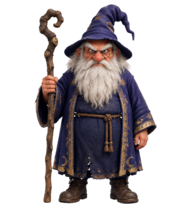
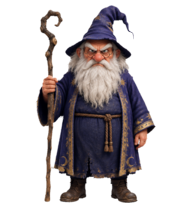
Trim the white halo off the pet sprites (0.3.1) (#1)
* Rename the fat ninja pet to V2 Ninja

* Trim the white halo off the pet sprites

The clip frames are keyed from white-background video, and their outer
ring of pixels kept the white they were blended with, so every pet showed
a light outline on a dark pane. keyWhite erodes the outline at clip size,
which is only about a quarter pixel once the frame is shrunk to 192 wide.

- Every clip frame of both pets, and the wizard's still, has its outline
  pulled in by 1px (alpha erosion per frame, re-encoded at the same
  cwebp settings). Edge brightness drops from ~120 to ~70, in line with
  the pixels inside it. The ninja's still had no halo and is unchanged.
- make-pet.ts now does the same 1px trim at the final frame size, for
  clips and for stills keyed from a white background, so new pets come
  out clean. Checked by rebuilding the wizard's waving clip and still
  from the original Higgsfield files.

* Release 0.3.1: sprites without the white halo

* Point the default pet at v2-ninja after the rename

DEFAULT_PET still named fat-ninja, which the rename removed, so a fresh
install (or anyone whose saved pet no longer loads) fell back to a pet
that doesn't exist and the pane failed to load. The tests mocked a
fat-ninja folder, so they passed anyway; they now use v2-ninja too.

* Fix holes and drift in make-pet's keying

- keyWhite painted the flooded background black and then took every
  non-black pixel as the pet, so any pure-black pixel of the pet itself
[…]

diff --git a/scripts/make-pet.ts b/scripts/make-pet.ts
@@ -42,16 +42,33 @@ const STILL_MARGIN = 4
 // bigger than HOLE_AREA at HOLE_SIZE do too. Video compression greys white
 // a little, and at 97% a narrow gap (staff and robe) breaks into specks too
 // small to count, so HOLE_WHITE sits at 93% and HOLE_AREA at 120. Eyes and
-// highlights stay, as they aren't that white.
+// highlights stay, as they aren't that white. A pet with a white marking
+// that white passes KEEP_WHITE and keeps everything inside its outline:
+// Clawde's starburst reaches 93-97% in a clip, as white as a gap between
+// its legs, so no lightness or size tells the two apart.
 const FLOOD_FUZZ = '8%'
 const HOLE_WHITE = '93%'
 const HOLE_AREA = 120
 const HOLE_SIZE = 640
-// Drift: the figure's bottom band, from FEET_BAND of its height above its
-// bottom to FEET_BELOW of the clip below it, smoothed over DRIFT_WINDOW frames.
-const FEET_BAND = 0.25
+const KEEP_WHITE = '--keep-white'
+// Drift: the figure's bottom band, from a share of its height above its
+// bottom to FEET_BELOW of the clip below it. Its place is smoothed over
+// DRIFT_WINDOW frames either side and its width, which sets the zoom, over
+// ZOOM_WINDOW, as a camera's zoom drifts slowly and anything else in the
+// band (a hand that hangs low) comes and goes. The zoom stays within
+// MAX_ZOOM either way. The share is whichever of FEET_BANDS keeps its width
+// within WIDTH_TOLERANCE of the usual in the most frames: a quarter takes in
+// hands that hang low (Clawde), which leave the band as they rise; a tenth
+// takes in only a seated pet's folded legs (the ninja), which move. A frame
+// with nothing in the band (mid-hop) keeps the frame before's feet.
+const QUARTER = 0.25
+const TENTH = 0.1
+const FEET_BANDS = [QUARTER, TENTH]
 const FEET_BELOW = 0.08
 const DRIFT_WINDOW = 15
+const ZOOM_WINDOW = 30
+const MAX_ZOOM = 1.1
+const WIDTH_TOLERANCE = 0.1
 
 // Packing: CLIP_FPS frames a second (hooks/pets.ts plays them at that rate),
 // full size, at QUALITY, in as few pieces as fit, up to MAX_PIECES.
@@ -82,40 +99,55 @@ const run = (argv: string[]): string => {
 }
 
 // ImageMagick's "%@" bounding box, "WxH+X+Y".
-// Matches "148x198+22+5"; rejects "0x0" (nothing there) and "148x198".
+// Matches "148x198+22+5"; rejects "0x0" and "148x198". An empty crop gives
+// "0x0+5+5", which matches, so a box with no width or height counts as
+// nothing there too.
 // https://regex101.com/?regex=%5E(%5Cd%2B)x(%5Cd%2B)%2B(-%3F%5Cd%2B)%2B(-%3F%5Cd%2B)%24&testString=148x198%2B22%2B5
 const GEOMETRY = /^(\d+)x(\d+)\+(-?\d+)\+(-?\d+)$/
 
 const boundsOf = (file: string, crop = ''): Rect | undefined => {
   const args = crop === '' ? [] : ['-crop', crop, '+repage']
   const match = GEOMETRY.exec(run(['magick', file, '-alpha', 'extract', ...args, '-threshold', '50%', '-format', '%@', 'info:']))
-  if (match === null) {
-    return undefined
-  }
-  const [w, h, x, y] = match.slice(1).map(Number)
-  return { w: w ?? 0, h: h ?? 0, x: x ?? 0, y: y ?? 0 }
+  const [w = 0, h = 0, x = 0, y = 0] = match === null ? [] : match.slice(1).map(Number)
+  return w === 0 || h === 0 ? undefined : { w, h, x, y }
 }
 
 // Background to transparent: the white reached by flooding in from the four
 // corners, plus any pure-white gap inside the outline larger than a hole of
 // HOLE_AREA (between an arm and the body). Light fur and small white details
-// such as eyes stay.
-const keyWhite = (input: string, output: string, size: number) => {
+// such as eyes stay. With keepWhite the holes mask is all white, so nothing
+// inside the outline goes. The flood paints the background transparent and
+// its alpha is the mask: painting it black instead would also count every
+// pure-black pixel of the pet (the ninja's hood) as background.
+const keyWhite = (input: string, output: string, size: number, keepWhite: boolean) => {
   const area = String(Math.round(HOLE_AREA * (size / HOLE_SIZE) ** SQUARED))
   const far = size - 1
   const floods = [`0,0`, `${far},0`, `0,${far}`, `${far},${far}`].flatMap(corner => ['-draw', `color ${corner} floodfill`])
+  const holes = keepWhite
+    ? ['(', '-clone', '0', '-fill', 'white', '-colorize', String(PERCENT), '-colorspace', 'gray', ')']
+    : [
+        '(', '-clone', '0', '-colorspace', 'gray', '-threshold', HOLE_WHITE,
+        '-define', `connected-components:area-threshold=${area}`, '-define', 'connected-components:mean-color=true',
+        '-connected-components', '8', '-negate', ')',
+      ]
   run([
     'magick', input, '-alpha', 'off',
-    '(', '+clone', '-fuzz', FLOOD_FUZZ, '-fill', 'black', ...floods, '-fuzz', '0', '-fill', 'white', '+opaque', 'black', '-colorspace', 'gray', ')',
-    '(', '-clone', '0', '-colorspace', 'gray', '-threshold', HOLE_WHITE,
-    '-define', `connected-components:area-threshold=${area}`, '-define', 'connected-components:mean-color=true',
-    '-connected-components', '8', '-negate', ')',
+    '(', '+clone', '-alpha', 'set', '-fuzz', FLOOD_FUZZ, '-fill', 'none', ...floods, '-fuzz', '0', '-alpha', 'extract', ')',
+    ...holes,
     '(', '-clone', '1,2', '-compose', 'multiply', '-composite', '-morphology', 'Erode', 'Disk:1', '-blur', '0x0.7', ')',
     '-delete', '1,2', '-alpha', 'off', '-compose', 'CopyOpacity', '-composite', output,
   ])
 }
 
-const makeStill = (picture: string, petDir: string) => {
+// ImageMagick arguments that pull a cut-out's outline in by one pixel at its
+// final size. keyWhite erodes at clip size, about a quarter pixel once the
+// frame is shrunk, so the edge pixels still hold the white they were blended
+// with and show as a light halo on a dark pane. Outside the image counts as
+// transparent. (Eroding an extracted copy and putting it back with
+// CopyOpacity breaks after -distort: it comes back all opaque.)
+const TRIM_EDGE = ['-virtual-pixel', 'transparent', '-channel', 'A', '-morphology', 'Erode', 'Square:1', '+channel']
+
+const makeStill = (picture: string, petDir: string, keepWhite: boolean) => {
   mkdirSync(petDir, { recursive: true })
   const work = mkdtempSync(join(tmpdir(), 'pet-still-'))
   const cut = join(work, 'cut.png')
@@ -123,7 +155,7 @@ const makeStill = (picture: string, petDir: string) => {
   if (hasAlpha) {
     run(['magick', picture, cut])
   } else {
-    keyWhite(picture, cut, Number(run(['magick', picture, '-format', '%w', 'info:'])))
+    keyWhite(picture, cut, Number(run(['magick', picture, '-format', '%w', 'info:'])), keepWhite)
   }
   // Trimmed, fitted inside the margin, standing on the frame's bottom, centred.
   const fit = `${FRAME_WIDTH - BOTH_SIDES * STILL_MARGIN}x${FRAME_HEIGHT - BOTH_SIDES * STILL_MARGIN}`
@@ -131,7 +163,9 @@ const makeStill = (picture: string, petDir: string) => {
   run([
     'magick', cut, '-trim', '+repage', '-resize', fit, '-background', 'none',
     '-gravity', 'south', '-extent', `${FRAME_WIDTH}x${FRAME_HEIGHT - STILL_MARGIN}`,
-    '-gravity', 'north', '-extent', `${FRAME_WIDTH}x${FRAME_HEIGHT}`, still,
+    '-gravity', 'north', '-extent', `${FRAME_WIDTH}x${FRAME_HEIGHT}`,
+    // A picture that came with its own transparency has a clean edge already.
+    ...(hasAlpha ? [] : TRIM_EDGE), still,
   ])
   run(['cwebp', '-quiet', '-lossless', still, '-o', join(petDir, 'still.webp')])
   run([
@@ -152,10 +186,11 @@ const median = (values: number[]): number => {
 // Each frame's feet box, smoothed: follows slow drift but not a quick hop.
 const smoothFeet = (feet: Rect[]): Rect[] =>
   feet.map((_, index) => {
-    const around = feet.slice(Math.max(0, index - DRIFT_WINDOW), index + DRIFT_WINDOW + 1)
+    const near = (window: number) => feet.slice(Math.max(0, index - window), index + window + 1)
+    const around = near(DRIFT_WINDOW)
     return {
       x: median(around.map(rect => rect.x)),
-      w: median(around.map(rect => rect.w)),
+      w: median(near(ZOOM_WINDOW).map(rect => rect.w)),
       y: median(around.map(rect => rect.y + rect.h)),
       h: 0,
     }
@@ -206,7 +241,7 @@ const pack = (frames: string[], petDir: string, clip: string, work: string): str
   return pieces.map(piece => piece.name)
 }
 
-const makeClip = (petDir: string, clipName: string, clip: string) => {
+const makeClip = (petDir: string, clipName: string, clip: string, keepWhite: boolean) => {
   if (!CLIPS.includes(clipName)) {
     throw new Error(`the clip is one of ${CLIPS.join(', ')}, not "${clipName}"`)
   }
@@ -221,7 +256,7 @@ const makeClip = (petDir: string, clipName: string, clip: string) => {
   const rate = run(['ffprobe', '-v', 'error', '-select_streams', 'v:0', '-show_entries', 'stream=r_frame_rate', '-of', 'csv=p=0', clip])
   const [num = 1, den = 1] = rate.split('/').map(Number)
   const names = readdirSync(full).filter(file => file.endsWith('.png')).sort()
-  names.map(name => keyWhite(join(full, name), join(keyed, name), size))
+  names.map(name => keyWhite(join(full, name), join(keyed, name), size, keepWhite))
 
   // The feet band comes from the first frame, where the pet is in its still pose.
   const first = boundsOf(join(keyed, names[0] ?? ''))
@@ -229,13 +264,29 @@ const makeClip = (petDir: string, clipName: string, clip: string) => {
     throw new Error(`${basename(clip)}: no figure found on a white background`)
   }
   const bottom = first.y + first.h
-  const top = Math.round(bottom - first.h * FEET_BAND)
-  const bandHeight = Math.min(size, Math.round(bottom + size * FEET_BELOW)) - top
-  const feet = names.map(name => {
-    const rect = boundsOf(join(keyed, name), `${size}x${bandHeight}+0+${top}`) ?? { w: first.w, h: 0, x: first.x, y: bottom - top }
-    return { ...rect, y: rect.y + top }
-  })
-  const smooth = smoothFeet(feet)
+  const feetIn = (band: number): Rect[] => {
+    const top = Math.round(bottom - first.h * band)
+    const bandHeight = Math.min(size, Math.round(bottom + size * FEET_BELOW)) - top
+    const ground: Rect = { w: first.w, h: 0, x: first.x, y: bottom }
+    return names.reduce<Rect[]>((found, name) => {
+      const seen = boundsOf(join(keyed, name), `${size}x${bandHeight}+0+${top}`)
+      return [...found, seen === undefined ? (found.at(-1) ?? ground) : { ...seen, y: seen.y + top }]
+    }, [])
+  }
+  // The share of frames whose band width strays from its usual width.
+  const spread = (feet: Rect[]): number => {
+    const widths = feet.map(rect => rect.w)
+    const usual = median(widths)
+    return widths.filter(width => Math.abs(width - usual) > usual * WIDTH_TOLERANCE).length / Math.max(1, widths.length)
+  }
+  const [steadiest] = FEET_BANDS.map(band => ({ band, feet: feetIn(band) }))
+    .map(tried => ({ ...tried, spread: spread(tried.feet) }))
+    .sort((a, b) => a.spread - b.spread)
+  if (steadiest === undefined) {
+    throw new Error('no feet band to try')
+  }
+  console.log(`${reaction}: feet band ${steadiest.band} of the height (${(steadiest.spread * PERCENT).toFixed(0)}% of frames stray)`)
+  const smooth = smoothFeet(steadiest.feet)
   const anchor = smooth[0] ?? { x: 0, y: 0, w: 1, h: 0 }
 
   // Map each frame's feet onto the first frame's, then crop the canvas out.
@@ -243,11 +294,11 @@ const makeClip = (petDir: string, clipName: string, clip: string) => {
   const crop = `${Math.round(FRAME_WIDTH * START_SCALE * k)}x${Math.round(CANVAS_HEIGHT * START_SCALE * k)}+${Math.round(START_LEFT * k)}+${Math.round((START_TOP - STILL_TOP * START_SCALE) * k)}`
   names.map((name, index) => {
     const { x, y, w } = smooth[index] ?? anchor
-    const scale = (anchor.w / w).toFixed(SCALE_DIGITS)
+    const scale = Math.min(MAX_ZOOM, Math.max(1 / MAX_ZOOM, anchor.w / w)).toFixed(SCALE_DIGITS)
     run([
       'magick', join(keyed, name), '-background', 'none', '-virtual-pixel', 'transparent',
       '-distort', 'SRT', `${x},${y} ${scale} 0 ${anchor.x},${anchor.y}`,
-      '-crop', crop, '+repage', '-resize', `${FRAME_WIDTH}x${CANVAS_HEIGHT}!`, join(canvas, name),
+      '-crop', crop, '+repage', '-resize', `${FRAME_WIDTH}x${CANVAS_HEIGHT}!`, ...TRIM_EDGE, join(canvas, name),
     ])
   })
 
@@ -261,14 +312,19 @@ const makeClip = (petDir: string, clipName: string, clip: string) => {
   pieces.map(name => console.log(`${petDir}/${name}`))
 }
 
-const [command, ...args] = process.argv.slice(ARGS_START)
-const usage =
-  'usage:\n  bun make-pet.ts still <picture> <pet folder>\n  bun make-pet.ts clip <pet folder> <review|waving|jumping|failed> <clip.mp4>'
+const [command, ...given] = process.argv.slice(ARGS_START)
+const keepWhite = given.includes(KEEP_WHITE)
+const args = given.filter(arg => arg !== KEEP_WHITE)
+const usage = [
+  'usage:',
+  `  bun make-pet.ts still <picture> <pet folder> [${KEEP_WHITE}]`,
+  `  bun make-pet.ts clip <pet folder> <${CLIPS.join('|')}> <clip.mp4> [${KEEP_WHITE}]`,
+].join('\n')
 const [first = '', second = '', third = ''] = args
 if (command === 'still' && args.length === STILL_ARGS && existsSync(first)) {
-  makeStill(first, second)
+  makeStill(first, second, keepWhite)
 } else if (command === 'clip' && args.length === CLIP_ARGS && existsSync(third)) {
-  makeClip(first, second, third)
+  makeClip(first, second, third, keepWhite)
 } else {
   writeFileSync('/dev/stderr', `${usage}\n`)
   process.exit(1)

diff --git a/hooks/register.test.tsx b/hooks/register.test.tsx
@@ -6,11 +6,11 @@ import { expect, mock, test } from 'claude-code/testing'
 const HOME = '/home/me'
 const MY_PETS = `${HOME}/.claude/pets`
 const NINJA = `{
-  "name": "Fat ninja", "emoji": "🥷", "hands": [{ "cx": 52, "cy": 131, "rx": 17, "ry": 14 }],
+  "name": "V2 Ninja", "emoji": "🥷", "hands": [{ "cx": 52, "cy": 131, "rx": 17, "ry": 14 }],
   "lines": ["Frantically working…"], "helper": "Shadow clone", "summon": "Shadow clone jutsu:"
 }`
 const FOLDERS: Record<string, Record<string, string>> = {
-  'fat-ninja': {
+  'v2-ninja': {
     'pet.json': NINJA,
     'still.webp': 'U1RJTEw=',
     'review@2_0_24_192_208.webp': 'UkVWSUVX',
@@ -28,7 +28,7 @@ const fakePets = (on: On) => {
       return { value: [entry('robo', 'dir')] }
     }
     if (e.path.endsWith('/pets')) {
-      return { value: [entry('fat-ninja', 'dir'), entry('.DS_Store', 'file')] }
+      return { value: [entry('v2-ninja', 'dir'), entry('.DS_Store', 'file')] }
     }
     const files = FOLDERS[e.path.split('/').pop() ?? ''] ?? {}
     return { value: Object.keys(files).map(name => entry(name, 'file')) }
@@ -146,7 +146,7 @@ test('a finished turn cheers on every surface, then settles back to idle', async
 
   await clock.advance(SETTLED_MS)
   const ui = await $.ui.mount({ ...PANE, surface: 'desktop' })
-  expect((await ui.find({ type: 'Svg' }))?.props.alt).toBe('Fat ninja')
+  expect((await ui.find({ type: 'Svg' }))?.props.alt).toBe('V2 Ninja')
   await ui.unmount()
 })
 
@@ -168,7 +168,7 @@ test("a subagent gets a helper named for the pet, which leaves when its run ends
   })
   const during = await $.ui.mount({ ...PANE, surface: 'desktop' })
   const drawn = await during.findAll({ type: 'Svg' })
-  expect(drawn.map(svg => svg.props.alt)).toEqual(['Fat ninja', 'Shadow clone: Review open pull requ…'])
+  expect(drawn.map(svg => svg.props.alt)).toEqual(['V2 Ninja', 'Shadow clone: Review open pull requ…'])
   await during.unmount()
 
   await $.turn.complete({ ...DONE_TURN, agentId: 'agent-1' })
@@ -212,7 +212,7 @@ test('the pane opens at session start, /pet toggles it, and /pet <id> switches p
   expect(stored.get('isPaneClosed')).toBe(true)
 
   const listed = await $.command.run(typedPet('list'))
-  expect(listed.text).toContain('▸ 🥷 fat-ninja: Fat ninja (built in; no jumping, failed)')
+  expect(listed.text).toContain('▸ 🥷 v2-ninja: V2 Ninja (built in; no jumping, failed)')
   expect(listed.text).toContain('  🐾 robo: Robo (yours; no review, waving, jumping, failed; no hands or working clip)')
 
   const missing = await $.command.run(typedPet('nobody'))

diff --git a/hooks/pets.ts b/hooks/pets.ts
@@ -27,7 +27,7 @@ export const CLIP_FPS = 10
 const MS_PER_SECOND = 1_000
 export const FRAME_MS = MS_PER_SECOND / CLIP_FPS
 
-export const DEFAULT_PET = 'fat-ninja'
+export const DEFAULT_PET = 'v2-ninja'
 
 export const REACTIONS = ['review', 'waving', 'jumping', 'failed'] as const
 export type Reaction = (typeof REACTIONS)[number]

diff --git a/README.md b/README.md
@@ -4,7 +4,7 @@ An animated pet in a pane beside the Claude Code chat. It works while Claude wor
 
 | Pet | Id | Works by |
 | --- | --- | --- |
-| 🥷 Fat ninja | `fat-ninja` | sitting with his laptop, hands a typing blur |
+| 🥷 V2 Ninja | `v2-ninja` | sitting with his laptop, hands a typing blur |
 | 🧙 Grumpy wizard | `grumpy-wizard` | standing and grudgingly casting spells |
 
 On the desktop app, VS Code and mobile the pet is animated. The terminal shows a one-line status instead.
@@ -38,7 +38,7 @@ claude plugin install desk-pets --marketplace V2-VanishsVault/desk-pets
 
 In the Claude desktop app, where `/plugin` doesn't run: click + next to the prompt box, then Plugins, Add marketplace with `V2-VanishsVault/desk-pets`, then Add plugin.
 
-Then type `/pet` to show the pane, and `/pet grumpy-wizard` or `/pet fat-ninja` to pick a pet.
+Then type `/pet` to show the pane, and `/pet grumpy-wizard` or `/pet v2-ninja` to pick a pet.
 
 ## Commands
 
@@ -80,6 +80,8 @@ Clips are `working`, `review`, `waving`, `jumping` and `failed`. Each clip plays
 bun scripts/make-pet.ts still <picture> <pet folder>
 bun scripts/make-pet.ts clip <pet folder> <clip> <clip.mp4>
 ```
+
+Add `--keep-white` for a pet with white markings inside its outline (Clawde's starburst), so the keying doesn't punch holes in them.
 
 A typing pet lists `hands` in `pet.json`. These are soft ellipses around each hand in still-frame pixels, and the pane taps them in turn while Claude works. A pet without hands plays its `working` clip instead.
 

diff --git a/skills/create-pet/SKILL.md b/skills/create-pet/SKILL.md
@@ -84,6 +84,8 @@ The script does the following:
 
 Look at a few frames of the result. Regenerate a clip whose first frame isn't the still (the model ignored the start image), or one that has white specks or cut-off effects.
 
+If the pet has a white marking inside its outline, such as a white logo, belly or patch, and that marking comes out with holes, run the clip again with `--keep-white` at the end. The script then removes only the white reached from the frame's corners and keeps everything inside the outline. A gap the background can't reach, such as between legs held together over a floor shadow, then stays white. If that shows, regenerate the clip with a pose that keeps the legs apart.
+
 ## 6. Show it
 
 Tell the person to type `/pet <id>`. The pane picks up the pet at once, and `/pet <id>` again reloads it after a change. Offer to tweak the lines or any one clip.
